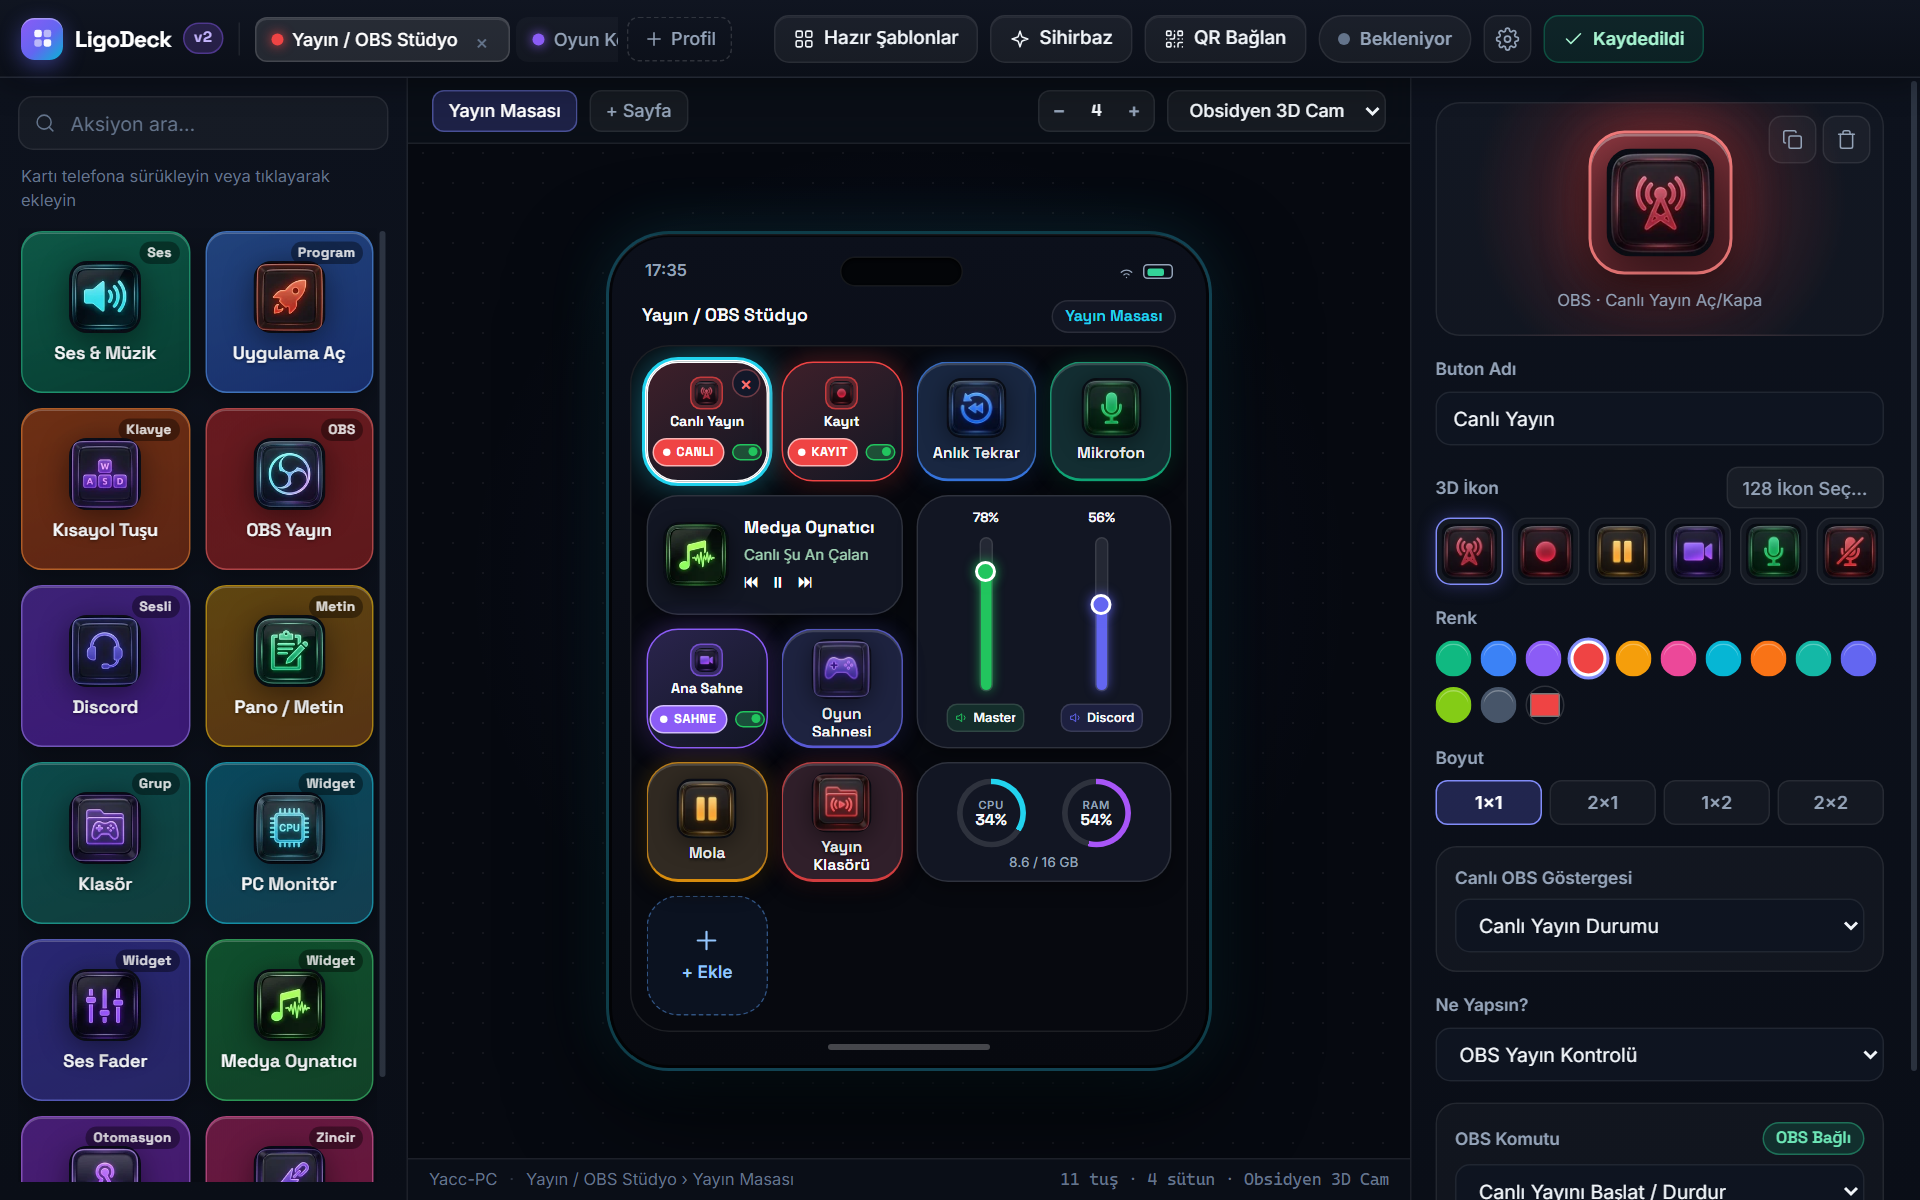
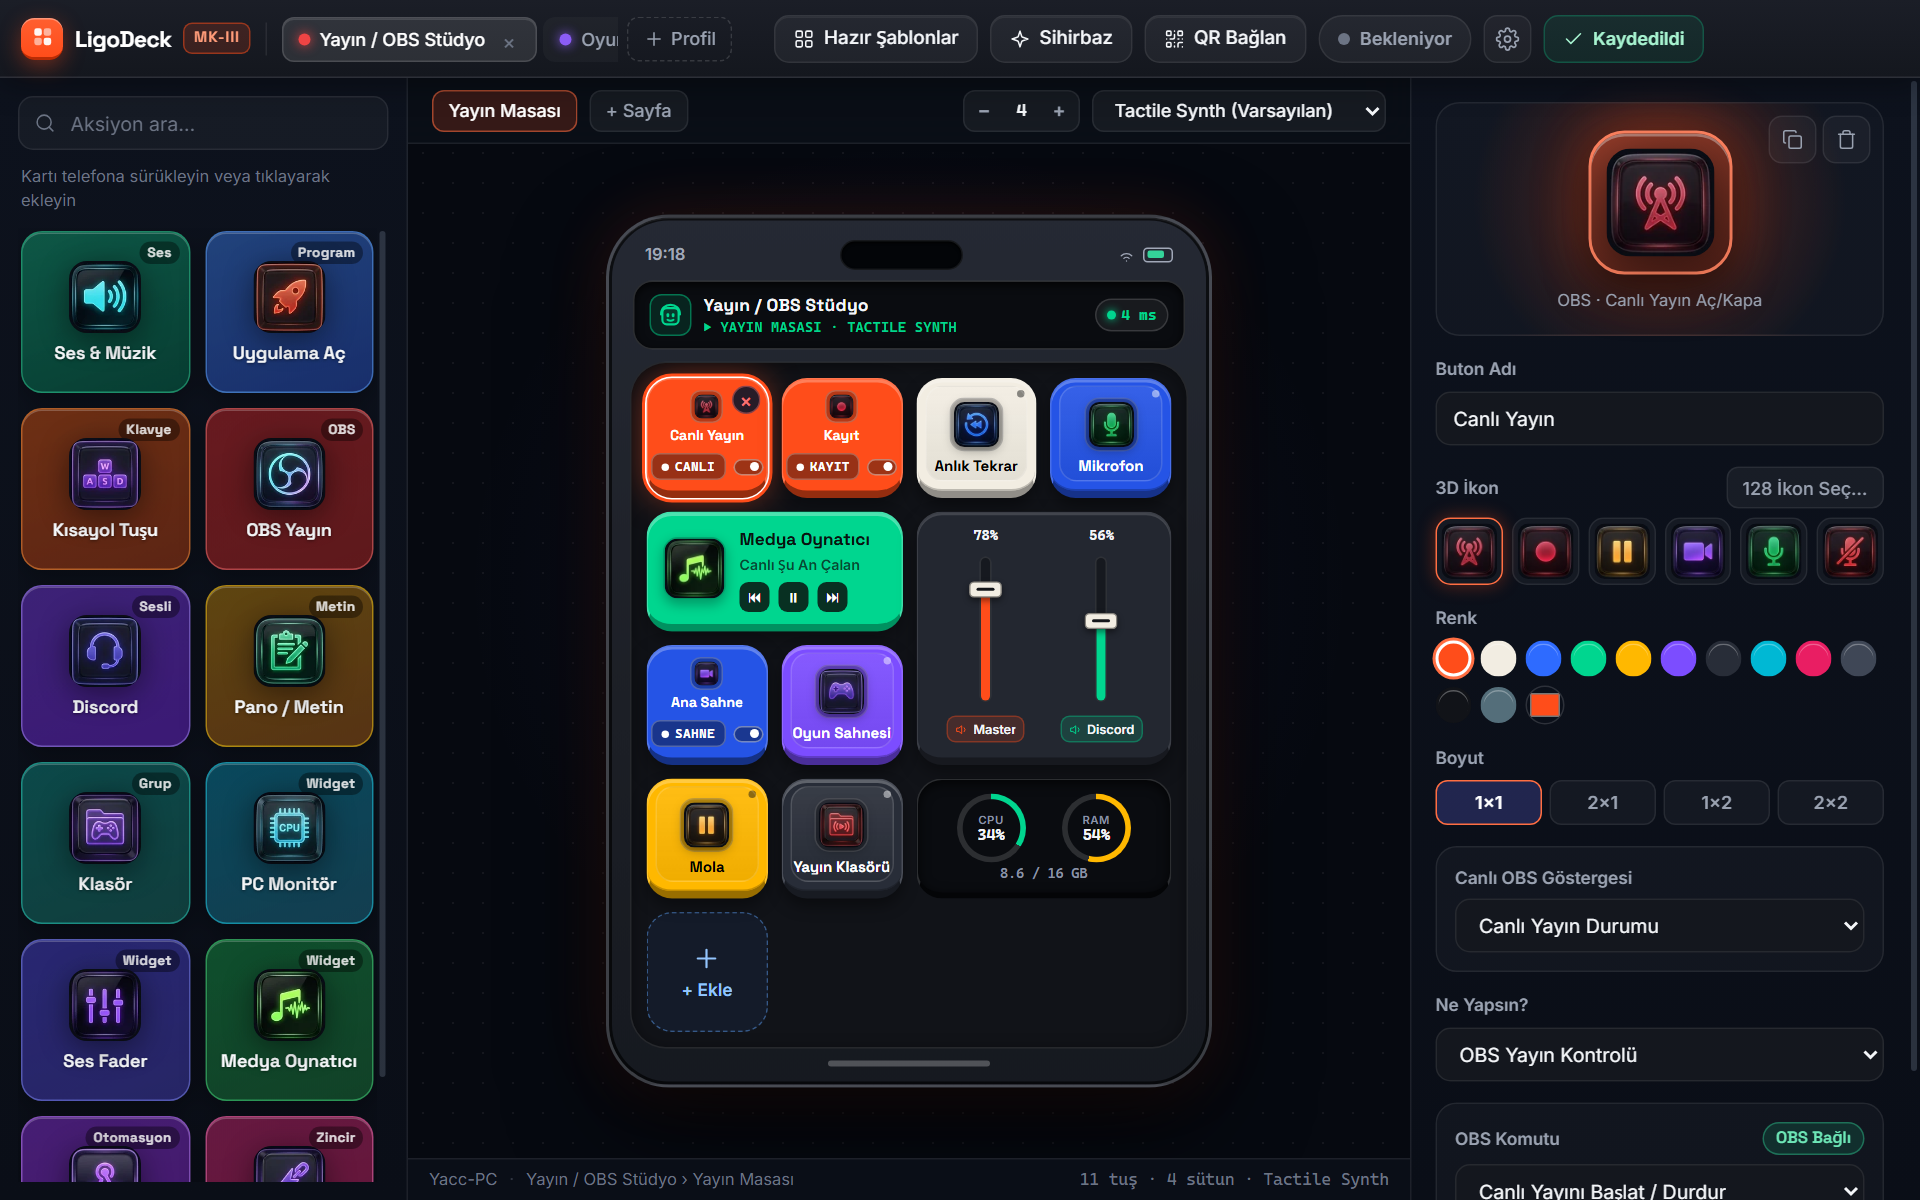
feat(ligodeck): MK-III Tactile Console görselleri ve Signal Orange vitrin güncellemesi

diff --git a/ligodeck.html b/ligodeck.html
@@ -22,7 +22,7 @@
     <link href="https://fonts.googleapis.com/css2?family=Inter:wght@400;500;600;700;800&family=Space+Grotesk:wght@500;600;700&display=swap" rel="stylesheet">
     <link rel="stylesheet" href="style.css">
     <style>
-        :root, [data-theme="light"] { --accent: #22d3ee; --accent-2: #8b5cf6; --accent-3: #34d399; }
+        :root, [data-theme="light"] { --accent: #ff4d1a; --accent-2: #ffb800; --accent-3: #00d68f; }
         .l-hero { padding: calc(var(--nav-h) + 3.5rem) 0 3rem; text-align: center; }
         .l-logo { width: 120px; height: 120px; border-radius: 30px; margin: 0 auto 1.5rem; box-shadow: 0 28px 70px -18px color-mix(in srgb, var(--accent) 65%, transparent); animation: bob 5s ease-in-out infinite; }
         @keyframes bob { 50% { transform: translateY(-9px); } }
